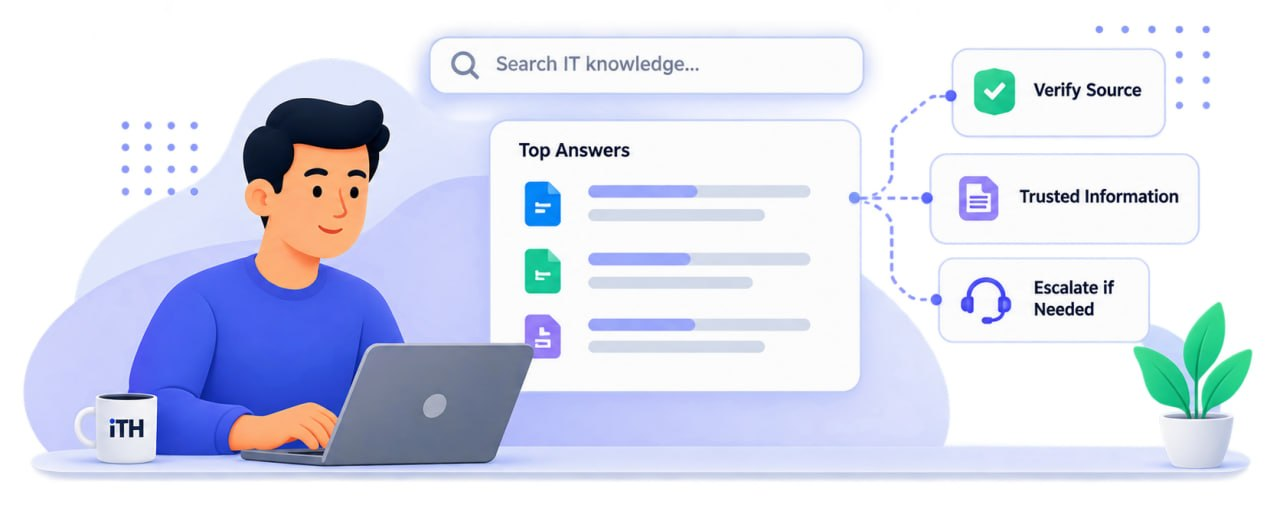
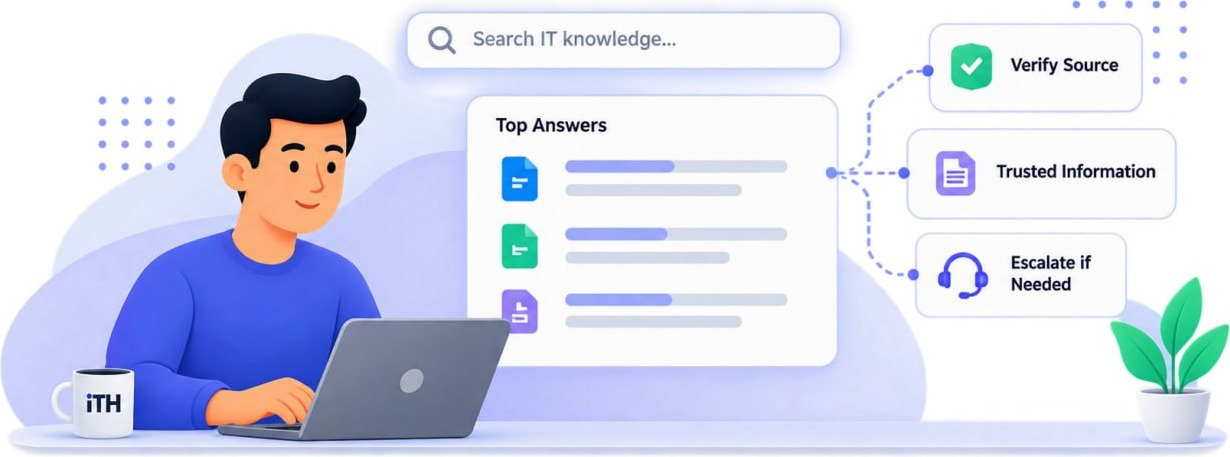
fix(login): the illustration holds its own ratio at every width and zoom level
The artwork was given a viewport-height box (`h-[clamp(190px,27vh,330px)]`) and
`object-cover`, so its visible crop depended on the window height and the browser zoom:
wider/shorter windows trimmed the drawing at both ends, and changing the zoom re-cropped
it instead of scaling it.

Now:
- the white margin around the artwork is trimmed into the asset itself (1280x508 with a
  ~25px white border → 1230x457), so the drawing can fill its frame edge to edge without
  any runtime cropping and without a white letterbox;
- the <img> is `w-full h-auto` with the intrinsic 1230/457 ratio reserved in CSS: the
  width drives the size, the height follows. No `object-cover`, no `vh` height, so it
  never crops, never stretches and never jumps when the zoom changes;
- the narrow layout's copy of the image loses its `object-cover` too.

Verified live at 1440 / 1100 / 1024 / 1000 / 960 / 820 CSS px: every render measures
2.691 — the asset's own ratio — with zero overflow, and both layouts show the full
drawing (person, laptop, search bar, Top Answers card, the three flow boxes).

frontend dev-1.0.79

diff --git a/frontend/src/features/auth/pages/LoginPage.tsx b/frontend/src/features/auth/pages/LoginPage.tsx
@@ -158,18 +158,21 @@ export default function Login({
                     {appName} · assistant workspace
                   </span>
                 </div>
-                {/* The asset is 1280x508 (2.52:1). Any other ratio + object-cover crops the
-                    drawing — the artwork stopped short at both edges. The frame now takes
-                    the image's own ratio, so it always shows in full and never stretches. */}
-                {/* Fixed, viewport-aware height + object-cover: the artwork bleeds to all
-                    four edges of the frame instead of sitting in a white letterbox. The
-                    crop only trims the illustration's own white margin. */}
+                {/* The asset is 1230x457 (2.69:1) with its own white margin already
+                    trimmed off, so it can fill the frame edge to edge.
+
+                    The rule: the image keeps ITS ratio at every width and every zoom
+                    level — `w-full h-auto` plus the intrinsic ratio. No `object-cover`
+                    and no viewport-height (`vh`) height: those were what cropped the
+                    drawing at some widths ("ဟိုမရောက် ဒီမရောက်") and made it change size
+                    when the browser zoom moved. Nothing is cut, nothing stretches. */}
                 <img
                   src="/login-illustration.jpg"
-                  width={1280}
-                  height={508}
+                  width={1230}
+                  height={457}
                   alt="IT Help assistant illustration — search IT knowledge, verify sources, escalate if needed"
-                  className="pointer-events-none block h-[clamp(190px,27vh,330px)] w-full select-none object-cover object-center"
+                  className="pointer-events-none block h-auto w-full max-w-full select-none"
+                  style={{ aspectRatio: "1230 / 457" }}
                   fetchPriority="high"
                   decoding="async"
                   draggable={false}
@@ -217,8 +220,8 @@ export default function Login({
                 src="/login-illustration.jpg"
                 alt=""
                 aria-hidden
-                className="relative mt-3 block h-auto w-full rounded-xl object-cover shadow-sm ring-1 ring-white/15"
-                style={{ aspectRatio: "1280 / 508" }}
+                className="relative mt-3 block h-auto w-full max-w-full rounded-xl shadow-sm ring-1 ring-white/15"
+                style={{ aspectRatio: "1230 / 457" }}
                 decoding="async"
                 draggable={false}
               />

diff --git a/infra/scripts/render.py b/infra/scripts/render.py
@@ -25,7 +25,7 @@ OUT = ROOT / "infra" / ".rendered"
 DEFAULTS = {
     "NAMESPACE": "rag-chatbot-dev",
     "REGISTRY": "harbor.drlinuxer.com/rag-chatbot-dev",
-    "FRONTEND_TAG": "dev-1.0.78",
+    "FRONTEND_TAG": "dev-1.0.79",
     "BACKEND_TAG": "dev-1.0.67",
     "OLLAMA_TAG": "0.5.7-models",
     "RERANK_TAG": "1.0.2",
